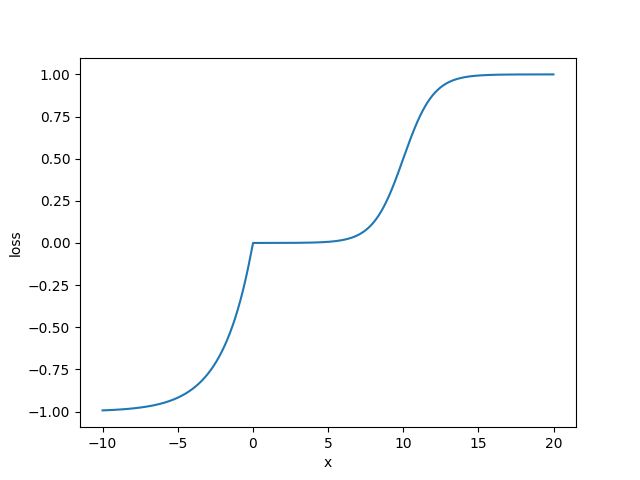
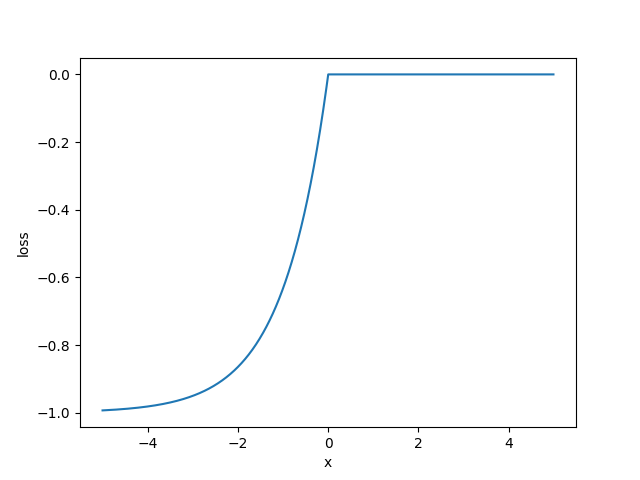
rebuild the loss function, lr function, step function

diff --git a/utils.py b/utils.py
@@ -18,7 +18,8 @@ lr = 1  # Learning rate
 habit_factor = 0.25  # between [0, 1], indicates the degree to which people's choices are influenced by habits
 distance_factor = 0.45  # between [0, 1], indicates the degree to which people's choices are influenced by distance to destinations
 immdediate_factor = 0.3  # between [0, 1], indicates the degree to which people's choices are influenced by immediate situation
-epoch_num = 100  # epoch number
+volatile_factor = 0.7  # 挥发系数
+epoch_num = 50  # epoch number
 
 
 Point = namedtuple('Point', ['row', 'col'])
@@ -32,6 +33,8 @@ class Person:
         self._original_room = room
         self._route: list['Exit'] = []
         self._p: dict[int, dict[int, dict[int, Tensor]]] = {}
+        self.cost = 0
+        self.id = -1
 
     def __str__(self) -> str:
         # todo
@@ -40,10 +43,6 @@ class Person:
     @property
     def route(self):
         return self._route
-
-    @property
-    def cost(self):
-        return len(self.route)
 
     @property
     def room(self):
@@ -100,11 +99,12 @@ class Person:
             loss (_type_): the loss * lr value
         """
         position = exit.outset.position
-        old_value = self._p[position.floor_num][position.row][position.col][exit_index]
+        ps = self.get_p(position) * volatile_factor
+        old_value = ps[exit_index]
         # print(f'Old: {self._p[position.floor_num][position.row][position.col]}')
         new_value = max(old_value - loss, 0.001)
-        self._p[position.floor_num][position.row][position.col][exit_index] = new_value
-        self.set_p(position, self._p[position.floor_num][position.row][position.col])
+        ps[exit_index] = new_value
+        self.set_p(position, ps)
         # print(f'New: {self._p[position.floor_num][position.row][position.col]}')
 
     @property
@@ -132,7 +132,7 @@ class Person:
         p_distance = normalize(
             tensor(
                 [
-                    1 / exit.target.distance if exit.target.distance else 1000.0
+                    1 / exit.target.distance**2 if exit.target.distance else 1e6
                     for exit in self.exits
                 ],
                 device=device,
@@ -158,9 +158,9 @@ class Person:
             dim=0,
         )
         # todo annotate this when publish
-        # if self.position == Position(1, 1, 1):
+        # if self.position == Position(2, 1, 1):
         #     print(p)
-        # print([exit.target.position for exit in self.exits])
+        #     print([exit.target.position for exit in self.exits])
         return p_result
 
     @property
@@ -182,11 +182,11 @@ class Person:
         Returns:
             bool: True for move to next room, False for keep the old room
         """
+        if self.room in self.building.destinations:
+            return False
+        self.cost += 1
         return (
-            True
-            if self.room not in self.building.destinations
-            and random() < self.room.reduce_rate / self.room.population
-            else False
+            True if random() < self.room.reduce_rate / self.room.population else False
         )
 
     def where_move(self) -> 'Exit':
@@ -197,24 +197,37 @@ class Person:
         """
         # choose the biggest posibility
         greatest = 0
-        greatest_index = 0
+        greatest_index = None
         ps = self.p
         for i in range(len(ps)):
             if ps[i] > greatest:
+                # ensure not repeated
+                if self.exits[i].target in [exit.outset for exit in self.route]:
+                    continue
                 greatest, greatest_index = ps[i], i
+        if greatest_index is None:
+            # choose randomly
+            r = random()
+            ps = self.p
+            for i in range(len(self.exits)):
+                p = ps[i]
+                if r - p <= 0 and p != 0:
+                    target: Exit= self.exits[i]
+                    return target
+                r -= p
         return self.exits[greatest_index]
         # choose randomly
-        r = random()
-        ps = self.p
-        for i in range(len(self.exits)):
-            p = ps[i]
-            if r - p <= 0 and p != 0:
-                target = self.exits[i]
-                logging.debug(
-                    f'Person move from {self.position} to {target.target.position}'
-                )
-                return target
-            r -= p
+        # r = random()
+        # ps = self.p
+        # for i in range(len(self.exits)):
+        #     p = ps[i]
+        #     if r - p <= 0 and p != 0:
+        #         target = self.exits[i]
+        #         logging.debug(
+        #             f'Person move from {self.position} to {target.target.position}'
+        #         )
+        #         return target
+        #     r -= p
 
     def move(self, exit: "Exit") -> None:
         """Move the person to a certain room
@@ -236,6 +249,7 @@ class Person:
         """Reset this person to the original room and clean the cost and route but keep p"""
         self.room = self._original_room
         self._route = []
+        self.cost = 0
 
 
 class Exit:
@@ -430,7 +444,7 @@ class Room:
         cost_so_far = {self.position: 0}
         while not myqueue.empty():
             current: Room = self.building.get_room(myqueue.get()[1])
-            if current in self.building.destinations:
+            if current._exits_positions in self.building.destinations:
                 break
             for next_room in [exit.target for exit in current.exits]:
                 new_cost = cost_so_far[current.position] + 1
@@ -555,8 +569,9 @@ class Floor:
 
 
 class Building:
-    def __init__(self, floor_layouts: dict) -> None:
+    def __init__(self, floor_layouts: dict, destination: list[Position]) -> None:
         self._floors = self._floors_gen(floor_layouts=floor_layouts)
+        self._destinations = destination
 
     def __str__(self) -> str:
         return '\n'.join([f"{floor}" for floor in self.floors]) + '\n'
@@ -594,8 +609,7 @@ class Building:
         Returns:
             Room object
         """
-        # todo
-        positions = [Position(0, 2, 1)]
+        positions = [Position(z, x, y) for (z, x, y) in self._destinations]
         return [self.get_room(position) for position in positions]
 
     def _floors_gen(
@@ -711,15 +725,12 @@ class Optimizer:
         x = self.epoch / epoch_num
         return (-(x**2) + x + 1) * self._lr
 
-    def step(self, loss: float):
-        loss *= self.lr if loss > 0 else self.lr * 10
-        for person in self._building.persons:
-            if person.cost > 5:
-                person.show_route()
-            for exit in person.route:
-                i = exit.outset.exits.index(exit)
-                person.modify_p(exit=exit, exit_index=i, loss=loss)
-        self.epoch += 1
+    def step(self, person: Person, loss: float):
+        loss *= self.lr
+        person.show_route()
+        for exit in person.route:
+            i = exit.outset.exits.index(exit)
+            person.modify_p(exit=exit, exit_index=i, loss=loss)
 
     def zero_grad(self):
         ...
@@ -746,25 +757,38 @@ class Criterion:
         if x <= 0:
             self.loss = math.exp(x) - 1
         else:
-            self.loss = 1 / (1 + math.exp(10 - x))
+            # self.loss = 1 / (1 + math.exp(10 - x))
+            self.loss = 0
         return self.loss
 
 
 def train(epoch_num):
-    building = Building(floor_layouts=floor_layouts)
+    building = Building(floor_layouts=floor_layouts, destination=destinations)
+    for i, person in enumerate(building.persons):
+        person.id = i
     simulator = Simulator(building=building)
     criterion = Criterion()
     optim = Optimizer(building=building, learning_rate=lr)
     best = float("inf")
+    personal_best = {}
     results = []
     train_info = []
     for epoch in range(epoch_num):
+        losses = []
         output = simulator.forward()
-        loss = criterion(output=output, target=best)
         best = min(best, output)
-        optim.zero_grad()
-        optim.step(loss)
+        for person in building.persons:
+            loss = criterion(
+                output=person.cost, target=personal_best.get(person.id, float('inf'))
+            )
+            personal_best[person.id] = min(
+                personal_best.get(person.id, float('inf')), person.cost
+            )
+            optim.step(person, loss)
+            optim.epoch += 1
+            losses.append(loss)
         results.append(output)
+        loss = sum(losses)
         train_info.append((epoch, loss))
         logging.info(
             f"Finish epoch: {epoch}\twithin {output} frames; current best is {best}; loss is {loss}"
@@ -774,12 +798,12 @@ def train(epoch_num):
         )
     average = sum(results) / len(results)
     variance = sum([(result - average) ** 2 for result in results]) / len(results)
-    logging.info(f"The average reslut is {average} frames")
-    print(f"The average reslut is {average} frames")
-    logging.info(f"The variance reslut is {variance}")
-    print(f"The variance reslut is {variance}")
-    logging.info(f"The fastest reslut is {best} frames")
-    print(f"The fastest reslut is {best} frames")
+    logging.info(f"The average result is {average} frames")
+    print(f"The average result is {average} frames")
+    logging.info(f"The variance result is {variance}")
+    print(f"The variance result is {variance}")
+    logging.info(f"The fastest result is {best} frames")
+    print(f"The fastest result is {best} frames")
     return train_info
 
 
@@ -799,6 +823,8 @@ if __name__ == "__main__":
     with open("./floor_layouts.json", "r", encoding="utf-8") as f:
         floor_layouts = json.load(f)
     logging.debug(f"The floor layouts:\n{floor_layouts}\n")
+    with open("./destinations.json", "r", encoding="utf-8") as f:
+        destinations = json.load(f)["destinations"]
     train_info = train(epoch_num)
     draw_loss(train_info=train_info)
     print("Finish!")

diff --git a/SRTP Develop Dairy.md b/SRTP Develop Dairy.md
@@ -6,7 +6,7 @@ time built: 2023-02-22 16:10
 last change: 2023-03-02 14:15  
 ---
 # 架构
-![架构.png](https://notesoflouis.oss-cn-chengdu.aliyuncs.com/imgs/%E6%9E%B6%E6%9E%84.png)
+![架构.png](./static/%E6%9E%B6%E6%9E%84.png)
 
 # Building
 `Building` 建筑物对象，包含多个 `Floor`
@@ -96,20 +96,19 @@ exit_i.reduce\_rate, & exit_i.target不是楼道或者建筑出口\\
 \end{cases}
 $$
 
-
 $$
 normalize(P_2)
 $$
 
-$P_3$ 的计算
+$P_3$ 的计算，由于自然界普遍存在吸引力反比于距离二次方，故
 $$
 distance_i = exit_i.target.distance
 $$
 $$
 p_i = 
 \begin{cases}
-\dfrac{1}{distance_i}, & distance_i>0\\
-1000, & distance_i = 0
+\dfrac{1}{distance_i^2}, & distance_i>0\\
+1\times10^6, & distance_i = 0
 \end{cases}
 $$
 $$
@@ -117,7 +116,7 @@ normalize(P_3)
 $$
 对于 $P_3$，有
 $$
-\dfrac {p_{i+1}}{p_i}=\dfrac{d+\Delta d}{d}=1 + \dfrac{\Delta d}{d}
+\dfrac {p_{i+1}}{p_i}=\dfrac{(d+\Delta d)^2}{d^2}=1 + \dfrac{2 \Delta d}{d} + \dfrac{\Delta d^2}{d^2}
 $$
 可以看出，若 $\Delta d$ 不变，$d$ 越大，选择两个出口的概率差别越小
 即路程较远时，人们往往无法很好衡量远近，以路程为依据决定路线表现出纠结的心理，在模型中表现为选择各个 `Exit` 的可能接近，此时更多地依赖习惯和临场决策，这符合实际情况
@@ -129,11 +128,14 @@ $epoch\_num$：迭代次数
 $k_1$：习惯所占权重
 $k_2$：临场判断所占权重
 $k_3$：距离建筑出口距离所占权重
+$\rho$：挥发系数
 
 对 `Building` 中的每个 `Person`，执行以下步骤：
 ## 1. 判断此人能否转移
 $$
 \begin{aligned}
+\text {if}\quad& 未到达终点 \quad \text{应当转移 else 不应当转移}\\
+\\
 r &= random()\\
 \\
 \text {if}\quad r &<\dfrac{room.reduce\_rate}{room.population}\quad \text{应当转移 else 不应当转移}
@@ -142,35 +144,39 @@ $$
 仅当此 `Person` 应当转移时，才执行后续步骤，否则直接处理下一个 `Person`
 ## 2. 确定 Exit
 按上述方法计算该 `Person` 在当前 `Room` 的 `P`
-选择 $p_i$ 最大的 `Exit` 作为转移的方向 
+选择 $p_i$ 最大且没有走过的 `Exit` 作为转移的方向 
 将此人及其转移方向 (Person, Exit)存入队列
 ## 3. 执行转移
-重复步骤 1. 和 2.，
-每次重复，从队列中拿出所有(Person, Exit)，执行转移
+重复步骤 1. 和 2.，遍历完所有 `Person` 后
+从队列中拿出所有(Person, Exit)，执行转移
 每将所有人遍历一遍，称为一帧
 直到所有 `Person` 都到达了设定的建筑出口 `Room`
-返回所用的总帧数作为 `output`
 ## 4. 计算损失
+遍历每个 `Person`
+`person.cost` 表示某人到建筑出口消耗的帧数
+`best` 表示该人在历次迭代中的最少消耗帧数
+`output` 表示本次模拟所有人到达建筑出口消耗的帧数
 $$
 \begin{aligned}
-x &= output - best\\
+x &= person.cost - best\\
 \\
 loss &=
 \begin{cases}
 e^{\frac x 2}-1, & x\le0\\
-\dfrac {1}{1+e^{10-x}}, & x>0
+0, & x>0
 \end{cases}
 \end{aligned}
 $$
 
 损失函数图像为
 
-![loss](https://notesoflouis.oss-cn-chengdu.aliyuncs.com/imgs/loss.png)
+![loss.png](./static/loss.png)
 
-观察图像，可知，模型会更多地奖励 loss 为负（即 `output`小于当前`best`）的情况，较少的惩罚（`output`相较`best`大得不多）的情况
+
+观察图像，可知，模型会更多地奖励 loss 为负（即 `cost` 小于当前 `best`）的情况，不惩罚 `cost` 大于当前 `best` 的情况
 ## 5. 更新最优 output
 $$
-best = min(best, output)
+best’ = min(best’, output)
 $$
 (注：best 的初始值为正无穷)
 ## 6. 更新 $P_1$
@@ -181,7 +187,7 @@ x &= current\_epoch/epoch\_num\\
 \\
 lr &= (-x^2+x+1) \cdot lr_0\\
 \\
-p_i &= p_i - lr\cdot loss\\
+p_i &= \rho \cdot p_i - lr\cdot loss\\
 \end{aligned}
 $$
 $$
